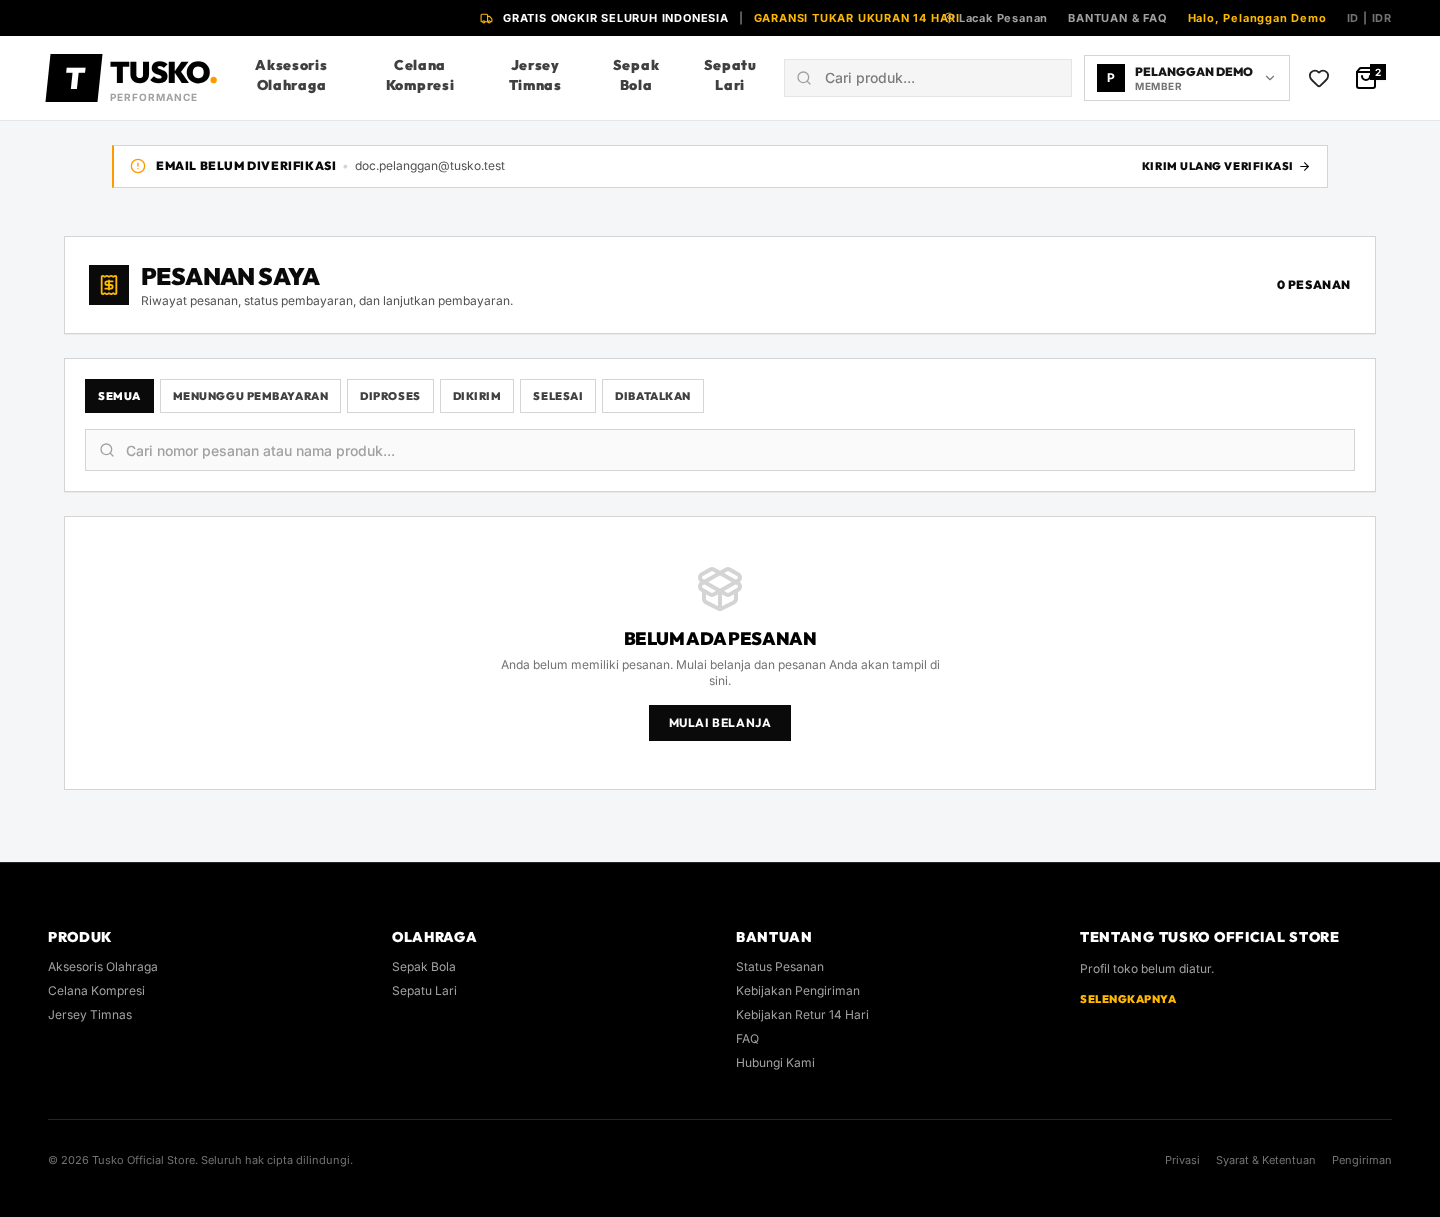
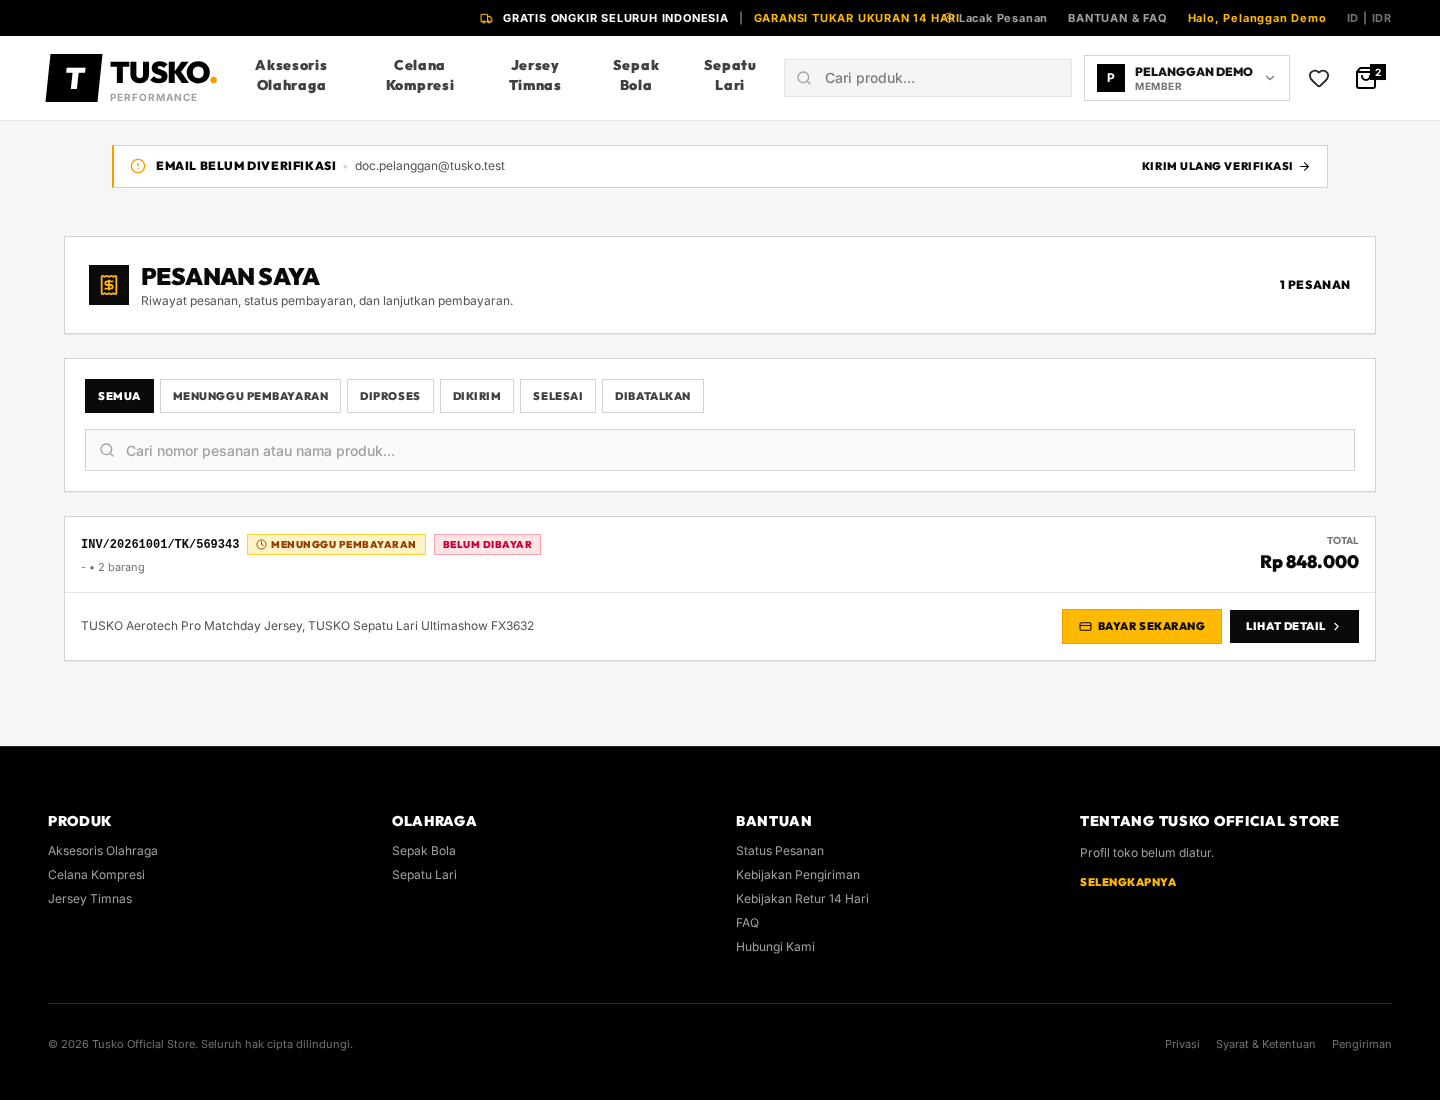
docs(P14): gunakan screenshot asli daftar dan detail pesanan

diff --git a/dokumentasi/02-pelanggan/P14-pesanan-saya.tex b/dokumentasi/02-pelanggan/P14-pesanan-saya.tex
@@ -23,14 +23,14 @@ Sudah login sebagai pelanggan.
 \end{enumerate}
 \end{flowsection}
 
-\shot{gambar/pelanggan/p14-1.png}{Halaman Pesanan Saya (tampilan saat belum ada pesanan)}{fig:p14-1}
+\shot{gambar/pelanggan/p14-1.png}{Halaman Pesanan Saya menampilkan daftar pesanan beserta statusnya}{fig:p14-1}
 
-\begin{flowsection}{Siklus Pesanan}
-Gambar berikut merangkum perjalanan status pesanan dari pembayaran hingga selesai
-dan tindakan purnajual.
+\begin{flowsection}{Detail Pesanan}
+Dari daftar, klik \textbf{Lihat Detail} untuk membuka rincian pesanan: nomor
+invoice, informasi pengiriman, daftar produk, dan rincian pembayaran.
 \end{flowsection}
 
-\shot{gambar/pelanggan/p14-2.png}{Siklus status pesanan pelanggan}{fig:p14-2}
+\shot{gambar/pelanggan/p14-2.png}{Detail pesanan: invoice, pengiriman, produk, dan rincian pembayaran}{fig:p14-2}
 
 \begin{flowsection}{Hasil yang Diharapkan}
 Pelanggan melihat status pesanan yang akurat dan dapat melanjutkan ke tindakan
